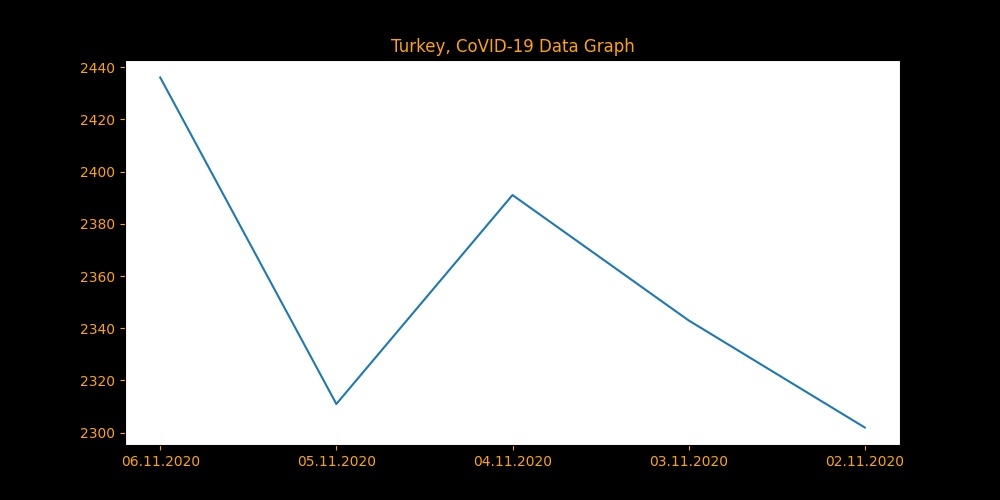
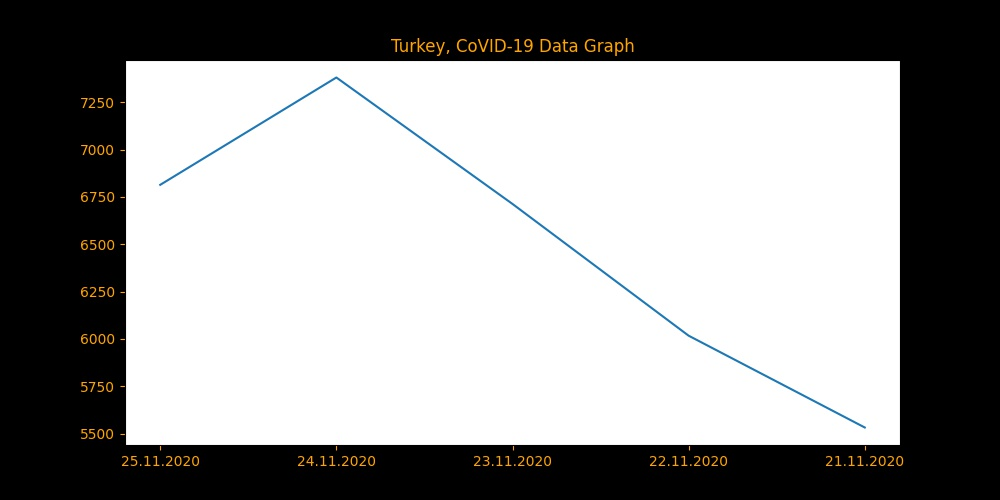
:notebook: Update 25.11.2020

diff --git a/README_TR.md b/README_TR.md
@@ -11,18 +11,18 @@ Burada, Türkiye'nin [COVID-19 (Koronavirüs) (Hakkında bilgi almak için tıkl
 Not: Bütün veriler, Türkiye Sağlık Bakanlığı'ndan sağlanmaktadır. Eğer veriler güncel değilse, bu büyük ihtimal [devletin web sitesi](https://covid19.saglik.gov.tr) ile alakalıdır. Tamamdır, o zaman başlayalım!
 
 Öncelikle bugünün verileri:
-## :calendar: 06.11.2020 Koronavirüs Verileri:
+## :calendar: 25.11.2020 Koronavirüs Verileri:
 | Veri Tipi         | Bugünün Verileri   | Toplam Veriler     |
 | :---              |    :----           |     :---           |
-| Testler           | 145,241    | 14,951,143    |
-| Vakalar           | 2,436   | 388,063    |
-| Tedaviler         | 1,914    | 335,723|
-| Vefatlar          | 83| 10,730   |
+| Testler           | 164,547    | 17,857,777    |
+| Vakalar           | 6,814   | 470,915    |
+| Tedaviler         | 3,911    | 388,907|
+| Vefatlar          | 168| 12,933   |
 
-:clock9: `Son Güncelleme: 07.11.2020 00:43`
+:clock9: `Son Güncelleme: 25.11.2020 22:10`
 \
 \
-Ülkemiz ile alakalı gönderilen verilerde bir gariplik var. Devletin verdiği toplam veriler ile günlük veriler arasında uyuşmazlık mevcut. Eğer her günün verisini birbirine eklersek, Bizim hesaplamamız vakalar için **1193** tane daha az çıkıyor. Bu, ölümler için **8** , testler için **104951** ve tedavi olanlar için **1430** . Neden devletimiz böyle bir şey yapıyor anlamıyoruz. YOKSA VERİLER YANLIŞ MI??!?\
+Ülkemiz ile alakalı gönderilen verilerde bir gariplik var. Devletin verdiği toplam veriler ile günlük veriler arasında uyuşmazlık mevcut. Eğer her günün verisini birbirine eklersek, Bizim hesaplamamız vakalar için **3185** tane daha az çıkıyor. Bu, ölümler için **93** , testler için **124257** ve tedavi olanlar için **3427** . Neden devletimiz böyle bir şey yapıyor anlamıyoruz. YOKSA VERİLER YANLIŞ MI??!?\
 Neyse tamam, hadi grafikler hakkında konuşalım. Dünle bu günün karşılaştırma grafiği:\
 ![Graph](https://github.com/lysep-corp/COVID-19/blob/master/Graphs/YESTERDAY_COMP_TODAY_TR.jpeg?raw=true)
 

diff --git a/README.md b/README.md
@@ -11,18 +11,18 @@ In this we will gonna show you where is the Turkey going about [COVID-19 Pandemi
 Note: All the data coming from Türk Ministery of Health's public website. If datas are not up-to-date, probably this is about the [goverment's website](https://covid19.saglik.gov.tr) if our server's are not die. Okey, Let's start than!
 
 First today's datas:
-## :calendar: 06.11.2020 Corona virus Datas:
+## :calendar: 25.11.2020 Corona virus Datas:
 | Data Type         | Today's Datas      | All Time Data      |
 | :---              |    :----           |     :---           |
-| Tests             | 145,241    | 388,063    |
-| Cases             | 2,436   | 10,730   |
-| Cures             | 1,914    | 14,951,143    |
-| Deaths            | 83| 335,723|
+| Tests             | 164,547    | 470,915    |
+| Cases             | 6,814   | 12,933   |
+| Cures             | 3,911    | 17,857,777    |
+| Deaths            | 168| 388,907|
 
-:clock9: `Last Update: 07.11.2020 00:43`
+:clock9: `Last Update: 25.11.2020 22:10`
 \
 \
-There is something weird going on about our country's data. There is a little bit difference about goverment's all time data and daily datas. If we gonna add everyday's data to each other, Our calculation is **1193** less than the goverment's case calculation. It's **8** for deaths, **104951** for tests and **1430** for cured person count. We don't know why our country is doing that. ARE THE DATAS WRONG??!?\
+There is something weird going on about our country's data. There is a little bit difference about goverment's all time data and daily datas. If we gonna add everyday's data to each other, Our calculation is **3185** less than the goverment's case calculation. It's **93** for deaths, **124257** for tests and **3427** for cured person count. We don't know why our country is doing that. ARE THE DATAS WRONG??!?\
 Okey, let's talk about the graphs. Here is today's data is compare with yesterdays:\
 ![YESTERDAY_COMP_TODAY_EN](https://github.com/lysep-corp/COVID-19/blob/master/Graphs/YESTERDAY_COMP_TODAY_EN.jpeg?raw=true)
 
